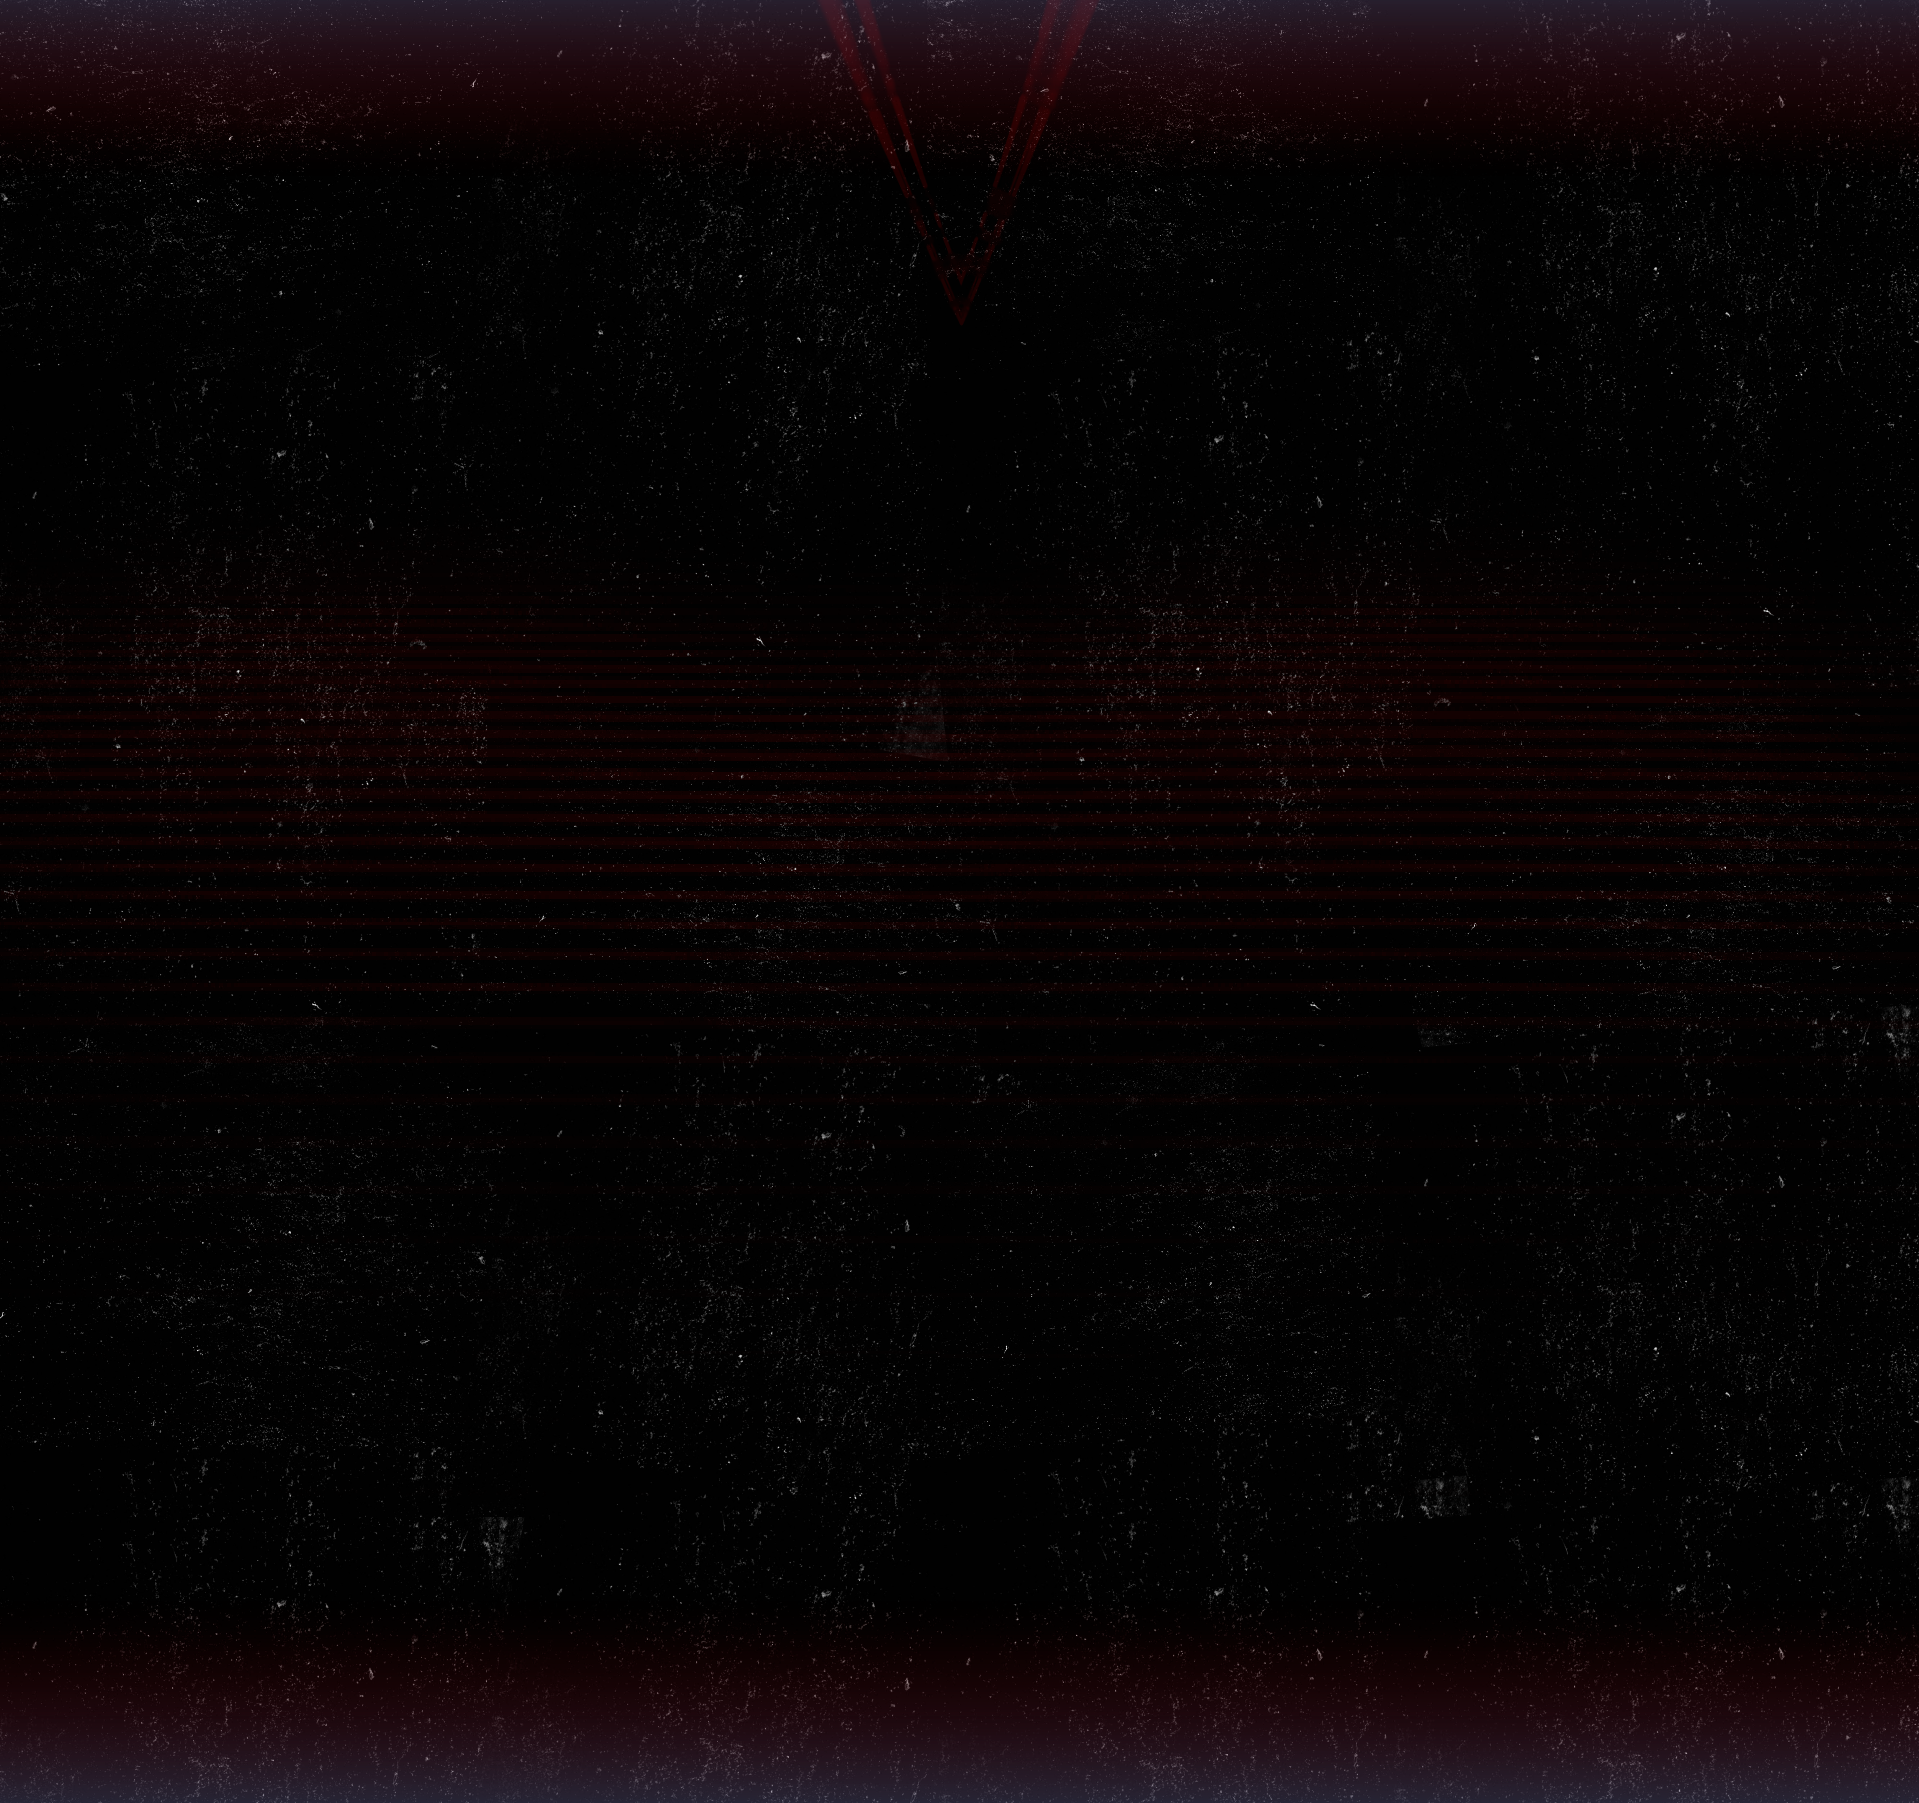
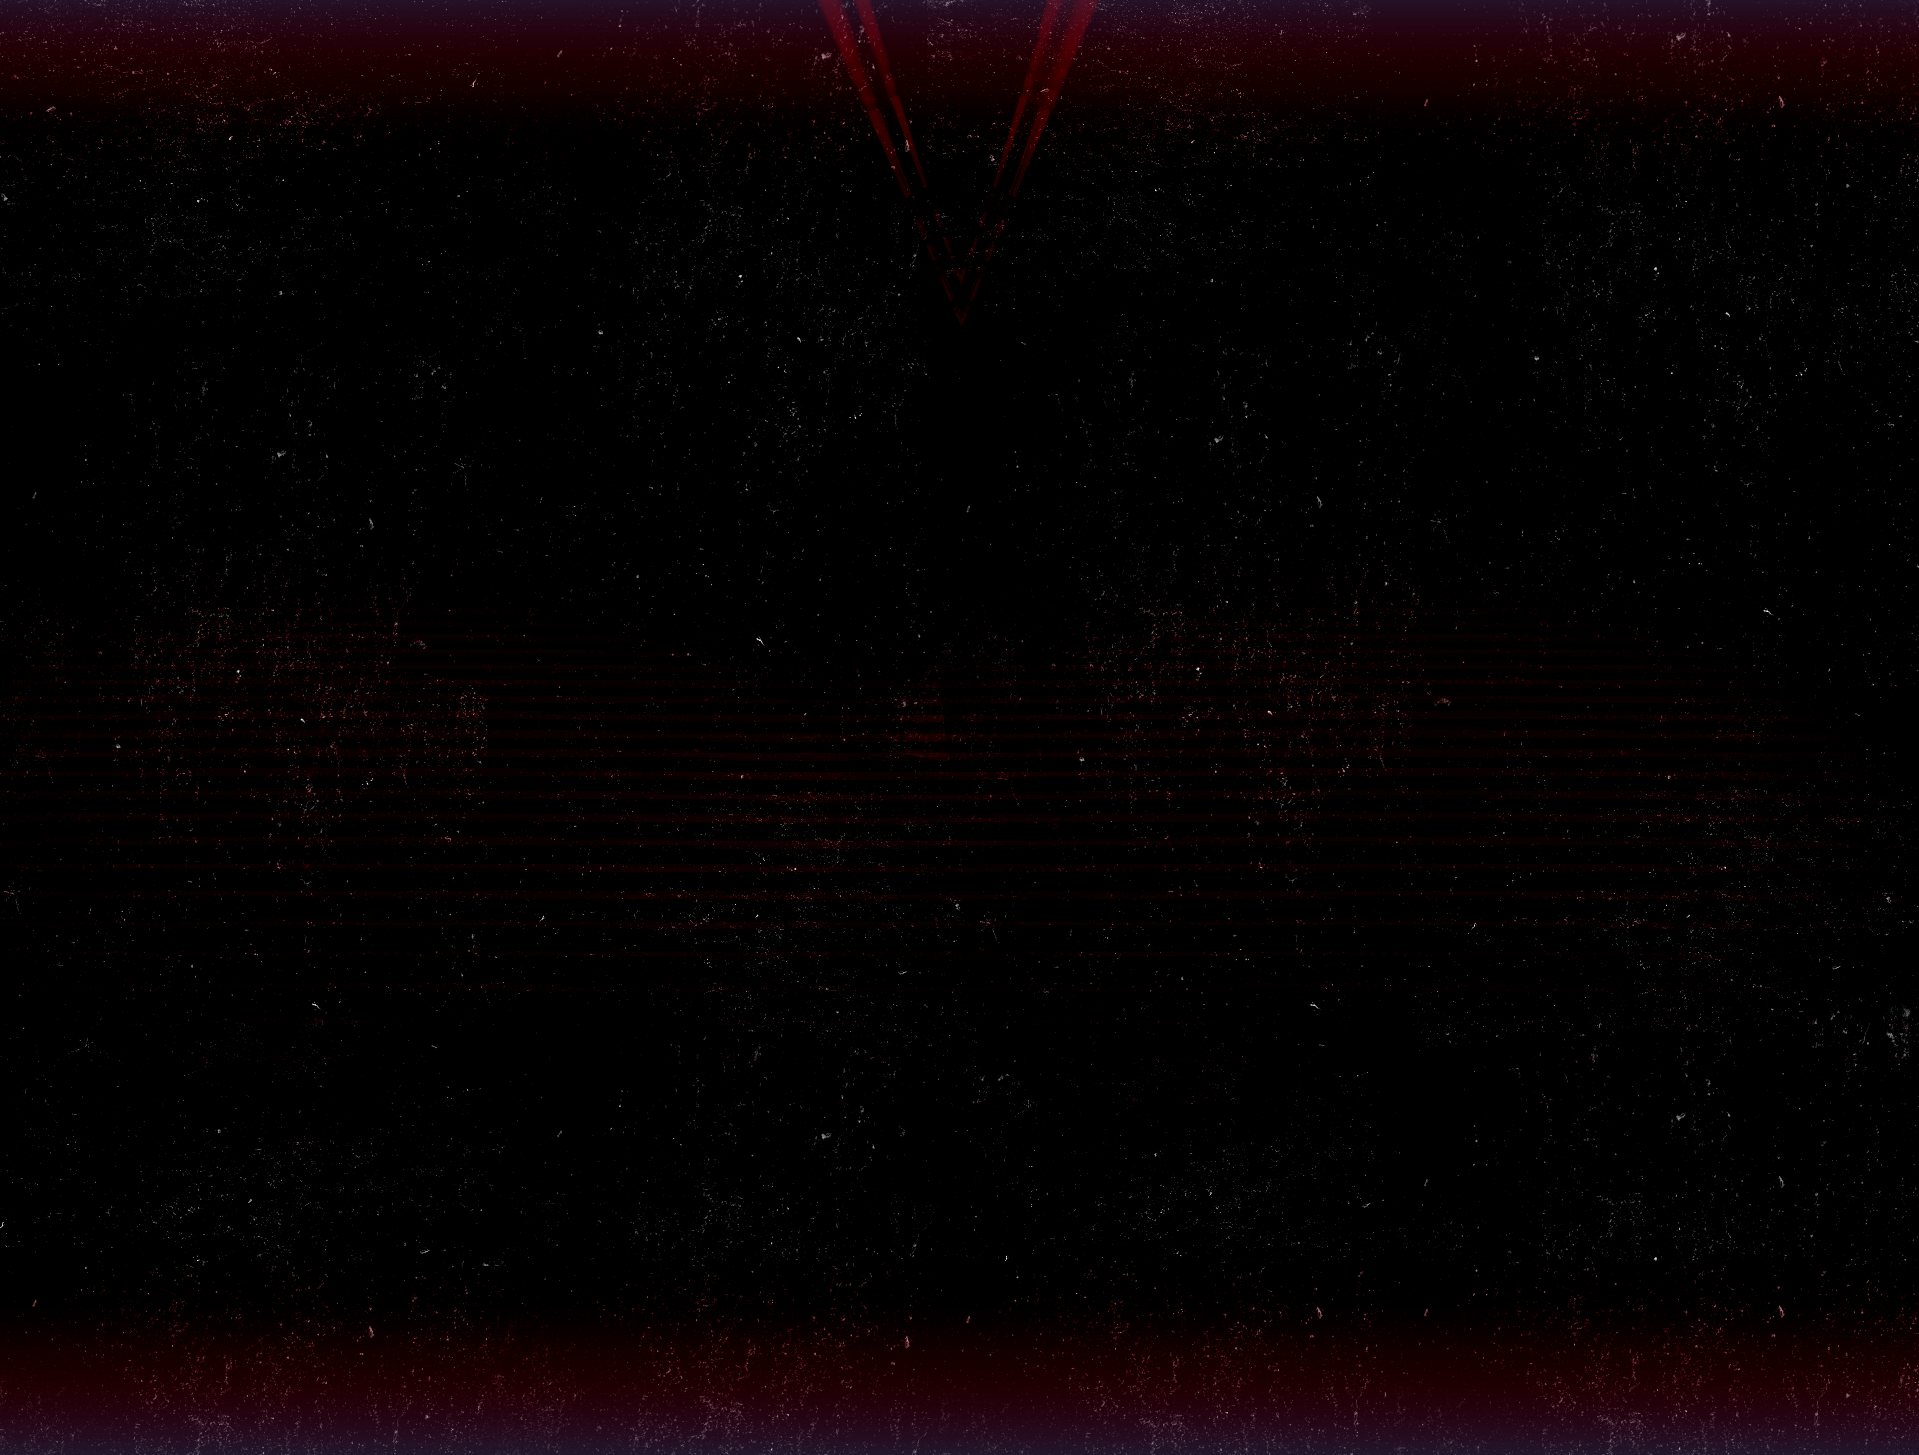
videos side done + rettelser

diff --git a/videos.css b/videos.css
@@ -25,6 +25,7 @@ h1{
     color: #FFF2D7;
     z-index: +1;
     margin-top: -2.8rem;
+    padding-right: 1rem;
 }
 
 /*-------Content Styling--------*/
@@ -32,108 +33,36 @@ h1{
 h2{
     font-family: 'Bebas Neue', cursive;
 }
-.h2text1{
-    font-family: 'Bebas Neue', cursive;
+.player1{
     position: relative;
-    text-align: center;
-    color: #FFF2D7;
-    font-size: 2.5em;
-    top: 4.5rem;
-    left: 50%;
-    margin-left: auto;
-    margin-right: auto;
-    transform: translate(-50%, -50%);
-    color: #FFF2D7;
+    size: 50%;
 }
-.h2text2{
-    font-family: 'Bebas Neue', cursive;
-    position: relative;
-    text-align: center;
-    color: #FFF2D7;
-    font-size: 2.5em;
-    top: 3rem;
-    left: 50%;
-    margin-left: auto;
-    margin-right: auto;
-    transform: translate(-50%, -50%);
-    color: #FFF2D7;
+.player1large{
+    display: none;
 }
-.scplayersp{
-    display: block;
-    margin-left: auto;
-    margin-right: auto;
-    position: relative;
-    align-items: center;
-    bottom: 1rem;
-    width:80%;
-    height:450px;
+.player2large{
+    display: none;
 }
-.scplayeran{
-    display: block;
-    margin-left: auto;
-    margin-right: auto;
-    position: relative;
-    align-items: center;
-    bottom: 2.4rem;
-    width:80%;
-    height:450px;
+.logosbottom{
+    display: flex;
+    justify-content: space-evenly;
+    vertical-align: middle;
 }
-.musiccontent{
-    position: relative;
-    top:2rem;
+.redlinetop{
+    display: none;
 }
-.infotext{
-    font-family: 'Bebas Neue', cursive;
-    position: relative;
-    text-align: center;
-    color: #FFF2D7;
-    font-size: 1.5em;
-    top: -5rem;
-    left: 50%;
-    margin-left: auto;
-    margin-right: auto;
-    transform: translate(-50%, -50%);
-    color: #FFF2D7;
+.redlinebottom{
+    display: none;
 }
-.ytlogo{
-    display: block;
-    width:62px;
-    margin-left: auto;
-    margin-right: auto;
-    position: relative;
-    align-items: center;
-    right: 7.1rem;
-    top: 10.2rem;
-}
-.splogo{
-    display: block;
-    width: 55px;
-    margin-left: auto;
-    margin-right: auto;
-    position: relative;
-    align-items: center;
-    top: 6.5rem;
-}
-.sclogo{
-    display: block;
-    width: 48px;
-    margin-left: auto;
-    margin-right: auto;
-    position: relative;
-    align-items: center;
-    top: 3.4rem;
-    left:6.8rem;
-}
-
 
 /*-------Links--------*/
 
-a{
-    cursor: pointer;
-}
+
 
 /*-------Footer Styling--------*/
-
+footer{
+    margin-top: 5rem;
+}
 .ufo{
     display: block;
     margin-left: auto;
@@ -147,7 +76,6 @@ a{
     font-size: 30px;
     position: relative;
     left: 0%;
-    padding:0%;
     bottom: 1rem;
     z-index: -1;
 
@@ -159,7 +87,6 @@ a{
     text-align: center;
     margin-top: -8rem;
     color: #FFF2D7;
-    z-index: +1;
 }
 .mailbox{
     margin-top: -2rem;
@@ -175,7 +102,7 @@ a{
     display: flex;
     justify-content: space-evenly;
     vertical-align: middle;
-
+    padding-bottom: 1rem;
 }
 .ig{
     width: auto;
@@ -209,7 +136,7 @@ a{
 
 @media all and (min-width: 600px) {
     body{
-        background-image: url("img/bgmusic1.png");
+        background-image: url("img/bgvideo.png");
         background-repeat: no-repeat;
     }
     
@@ -242,20 +169,38 @@ a{
     .blines{
         display: none;
     }
-    .infotext{
+    .ytplayers{
+        display: flex;
+        justify-content: space-evenly;
+        vertical-align: middle;
+    }
+    .player1{
+        size-adjust: 50em;
+    }
+    .player1large{
+        display: inline;
+    }
+    .player2large{
+        display: inline;
+    }
+    .bottomtext{
+        font-family: 'Bebas Neue', cursive;
+        position: relative;
         text-align: center;
-        font-size: 3rem;
-        left: 58rem;
-        top: -8rem;
+        color: #FFF2D7;
+        font-size: 2.5em;
+        top: 3rem;
+        left: 50%;
+        margin-left: auto;
+        margin-right: auto;
+        transform: translate(-50%, -50%);
+        color: #FFF2D7;
     }
-    .infobar{
-        padding-right: 1rem;
+    .redlinetop{
+        display: inline;
     }
-    .ytlogo{
-        right: 12rem;
-    }
-    .sclogo{
-        left: 12rem;
+    .redlinebottom{
+        display: inline;
     }
             
 /*-------Text Styling MQ--------*/
@@ -269,9 +214,17 @@ a{
     .blines{
         display: none;
     }
+    .player1mobile{
+        display: none;
+    }
+    .player2mobile{
+        display: none;
+    }
             
 /*-------Footer Styling MQ--------*/
-
+    footer{
+    margin-top: 5rem;
+    }
     .ufo{
         display:none;
     }
@@ -285,7 +238,6 @@ a{
         position: relative;
         margin-top: -6em;
         left: -10px;
-        z-index: +1;
     }
     .ig{
         margin-left: -1.5rem;

diff --git a/videos.html b/videos.html
@@ -1,0 +1,60 @@
+<!DOCTYPE html>
+<html lang="en">
+<head>
+    <meta charset="UTF-8">
+    <meta http-equiv="X-UA-Compatible" content="IE=edge">
+    <meta name="viewport" content="width=device-width, initial-scale=1.0">
+    <link rel="stylesheet" href="videos.css">
+    <style>
+        @import url('https://fonts.googleapis.com/css2?family=Bebas+Neue&family=Livvic:wght@100&display=swap');
+        @import url(https://allfont.net/allfont.css?fonts=agency-fb);
+    </style>
+    <title>Martrox - Videos</title>
+</head>
+<body>
+    <a href="index.html">
+    <img class="logo" src="img/logo.png" alt="logo">
+    </a>
+    <section class="toptext">
+    <img class="blines" src="img/blines.png" alt="Red Lines">
+    <img class="largelines"src="img/largelines.png" alt="Red Lines Large">
+    <h1 class="h1top">Videos</h1>
+    <img class="redlinetop" src="img/videoline.png" alt="red line top">
+    <section class="ytplayers">
+        <!-- Import code fra youtube (mobile) -->
+        <iframe class="player1mobile" width="360" height="215" src="https://www.youtube.com/embed/fJQNVj7TkCs" title="YouTube video player" frameborder="0" allow="accelerometer; autoplay; clipboard-write; encrypted-media; gyroscope; picture-in-picture" allowfullscreen></iframe>
+        <iframe class="player2mobile" width="360" height="215" src="https://www.youtube.com/embed/ic9I5fQwpIs" title="YouTube video player" frameborder="0" allow="accelerometer; autoplay; clipboard-write; encrypted-media; gyroscope; picture-in-picture" allowfullscreen></iframe>
+        <!-- Import code fra youtube (large) -->
+        <iframe class="player1large" width="660" height="415" src="https://www.youtube.com/embed/fJQNVj7TkCs" title="YouTube video player" frameborder="0" allow="accelerometer; autoplay; clipboard-write; encrypted-media; gyroscope; picture-in-picture" allowfullscreen></iframe>
+        <iframe class="player2large" width="660" height="415" src="https://www.youtube.com/embed/ic9I5fQwpIs" title="YouTube video player" frameborder="0" allow="accelerometer; autoplay; clipboard-write; encrypted-media; gyroscope; picture-in-picture" allowfullscreen></iframe>
+    </section>
+    <img class="redlinebottom" src="img/videoline.png" alt="red line bottom">
+    <h2 class="bottomtext">both videos were made in after effects and premiere pro</h2>
+    <section class="logosbottom">
+    <img class="aelogo" src="img/aelogo.png" alt="after effects logo">
+    <img class="pplogo" src="img/pplogo.png" alt="premiere pro logo">
+    </section>
+
+</body>
+<footer>
+    <img class="ufo" src="img/ufo.png" alt="ufo">
+    <section class="footer">
+        <h3 class="contact">contact</h3>
+        <section class=mailbox>
+        <a href=mailto:martin.olsen2612@gmail.com class="mail">martin.olsen2612@gmail.com
+        </a>
+        </section>
+    </section>
+    <section class="footerlinks">
+        <a href="https://www.instagram.com/martinanxolsen/" target="_blank">
+            <img class="ig" src="img/ig.png" alt="instagram link">
+        </a>
+        <a href="https://www.facebook.com/MtildetAtildetRtildetTtildetItildetN/" target="_blank">
+            <img class="fb" src="img/fb.png" alt="facebook link">
+        </a>
+        <a href="https://www.linkedin.com/in/martin-ruberg-olsen-22b5a821b/" target="_blank">
+            <img class="li" src="img/li.png" alt="linkedin link">
+        </a>
+    </section>
+</footer>
+</html>

diff --git a/music.html b/music.html
@@ -20,8 +20,16 @@
     <img class="largelines"src="img/largelines.png" alt="Red Lines Large">
     <h1 class="h1top">Music</h1>
     </section> 
+    <section class="musiccontent">
+    <h2 class="h2text1">current project: 
+    <br> space rush</h2>
     <!-- Import code fra soundcloud -->
-    <iframe class="scplayer" scrolling="no" frameborder="no" allow="autoplay" src="https://w.soundcloud.com/player/?url=https%3A//api.soundcloud.com/playlists/1362792211%3Fsecret_token%3Ds-RlKAW7sXxKk&color=%23561010&auto_play=false&hide_related=false&show_comments=true&show_user=true&show_reposts=false&show_teaser=true"></iframe><div style="font-size: 10px; color: #cccccc;line-break: anywhere;word-break: normal;overflow: hidden;white-space: nowrap;text-overflow: ellipsis; font-family: Interstate,Lucida Grande,Lucida Sans Unicode,Lucida Sans,Garuda,Verdana,Tahoma,sans-serif;font-weight: 100;"><a href="https://soundcloud.com/spacerushmusic" title="SPACE RUSH" target="_blank" style="color: #cccccc; text-decoration: none;"></a> · <a href="https://soundcloud.com/spacerushmusic/sets/space-rush-release/s-RlKAW7sXxKk" title="SPACE RUSH - Release" target="_blank" style="color: #cccccc; text-decoration: none;"></a></div>
+    <iframe class="scplayersp" scrolling="no" frameborder="no" allow="autoplay" src="https://w.soundcloud.com/player/?url=https%3A//api.soundcloud.com/playlists/1362792211%3Fsecret_token%3Ds-RlKAW7sXxKk&color=%23561010&auto_play=false&hide_related=false&show_comments=true&show_user=true&show_reposts=false&show_teaser=true"></iframe><div style="font-size: 10px; color: #cccccc;line-break: anywhere;word-break: normal;overflow: hidden;white-space: nowrap;text-overflow: ellipsis; font-family: Interstate,Lucida Grande,Lucida Sans Unicode,Lucida Sans,Garuda,Verdana,Tahoma,sans-serif;font-weight: 100;"><a href="https://soundcloud.com/spacerushmusic" title="SPACE RUSH" target="_blank" style="color: #cccccc; text-decoration: none;"></a> · <a href="https://soundcloud.com/spacerushmusic/sets/space-rush-release/s-RlKAW7sXxKk" title="SPACE RUSH - Release" target="_blank" style="color: #cccccc; text-decoration: none;"></a></div>
+    <h2 class="h2text2">former project: 
+    <br>anx</h2>
+    <!-- Import code fra soundcloud -->
+    <iframe class="scplayeran" width="100%" height="450" scrolling="no" frameborder="no" allow="autoplay" src="https://w.soundcloud.com/player/?url=https%3A//api.soundcloud.com/playlists/1362805204%3Fsecret_token%3Ds-6kJNgtsumwN&color=%23561010&auto_play=false&hide_related=false&show_comments=true&show_user=true&show_reposts=false&show_teaser=true"></iframe><div style="font-size: 10px; color: #cccccc;line-break: anywhere;word-break: normal;overflow: hidden;white-space: nowrap;text-overflow: ellipsis; font-family: Interstate,Lucida Grande,Lucida Sans Unicode,Lucida Sans,Garuda,Verdana,Tahoma,sans-serif;font-weight: 100;"><a href="https://soundcloud.com/anxsound" title="ANX" target="_blank" style="color: #cccccc; text-decoration: none;"></a> · <a href="https://soundcloud.com/anxsound/sets/anx-release/s-6kJNgtsumwN" title="ANX - Release" target="_blank" style="color: #cccccc; text-decoration: none;"></a></div>
+    </section>
     <section class="infobar">
     <a href="https://www.youtube.com/c/SPACERUSHMUSIC/featured" target="_blank">
         <img class="ytlogo" src="img/ytlogo.png" alt="youtube logo">

diff --git a/projects.css b/projects.css
@@ -187,7 +187,7 @@ h2{
 
 @media all and (min-width: 600px) {
     body{
-        background-image: url("img/projectbg.png");
+        background-image: url("img/projectbg1.png");
         background-repeat: no-repeat;
     }
     

diff --git a/about.css b/about.css
@@ -234,7 +234,7 @@ footer{
 
 @media all and (min-width: 600px) {
     body{
-        background-image: url("img/aboutbgl1.png");
+        background-image: url("img/aboutbgl.png");
         background-repeat: no-repeat;
     }
 
